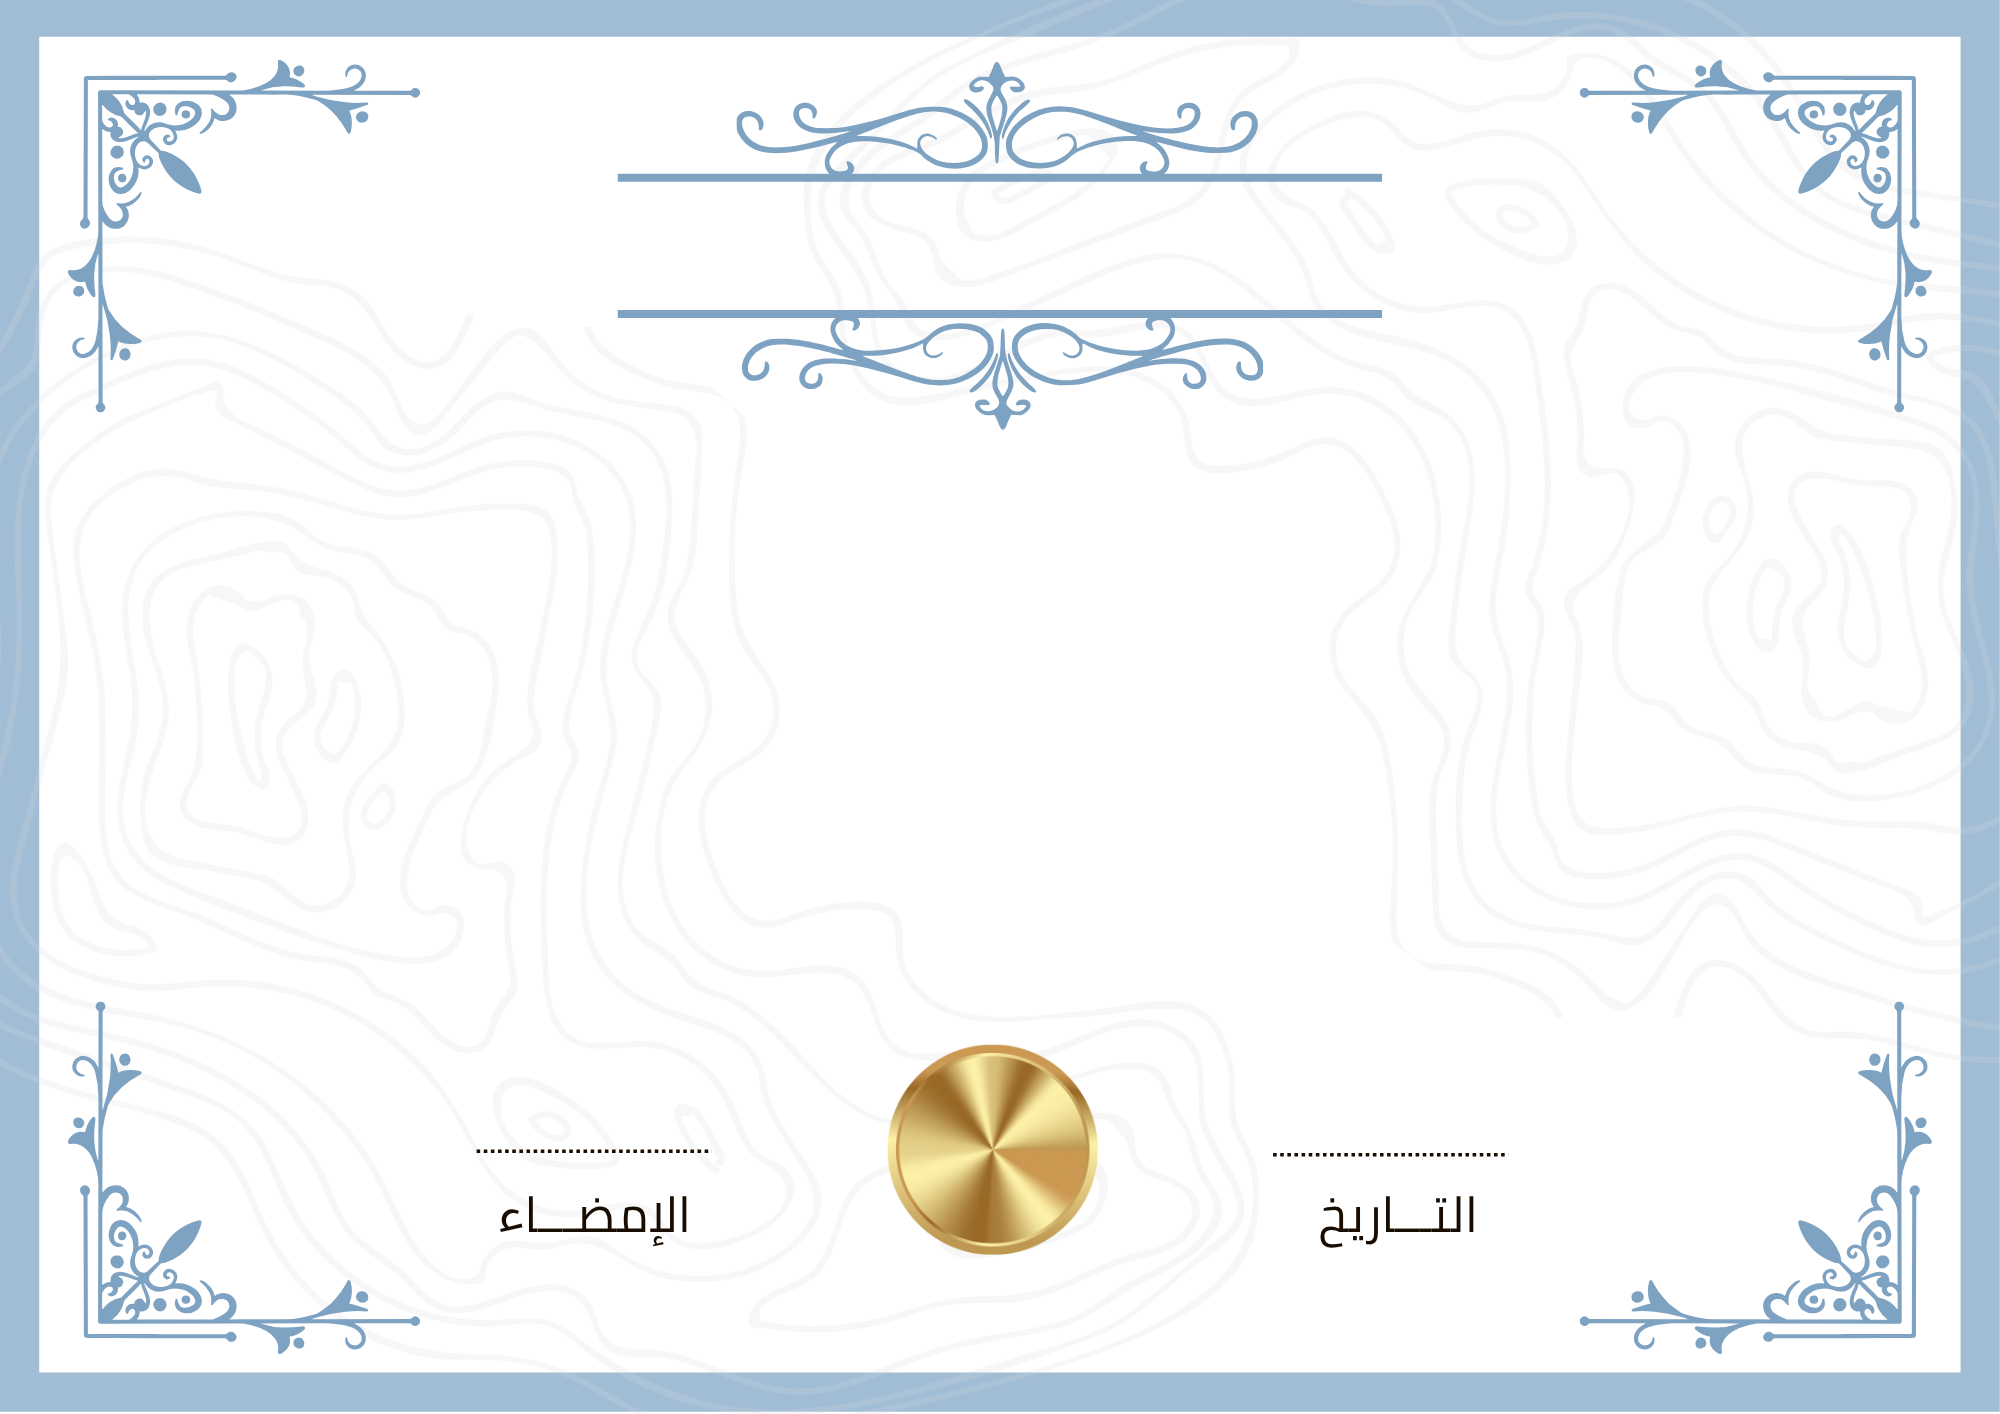
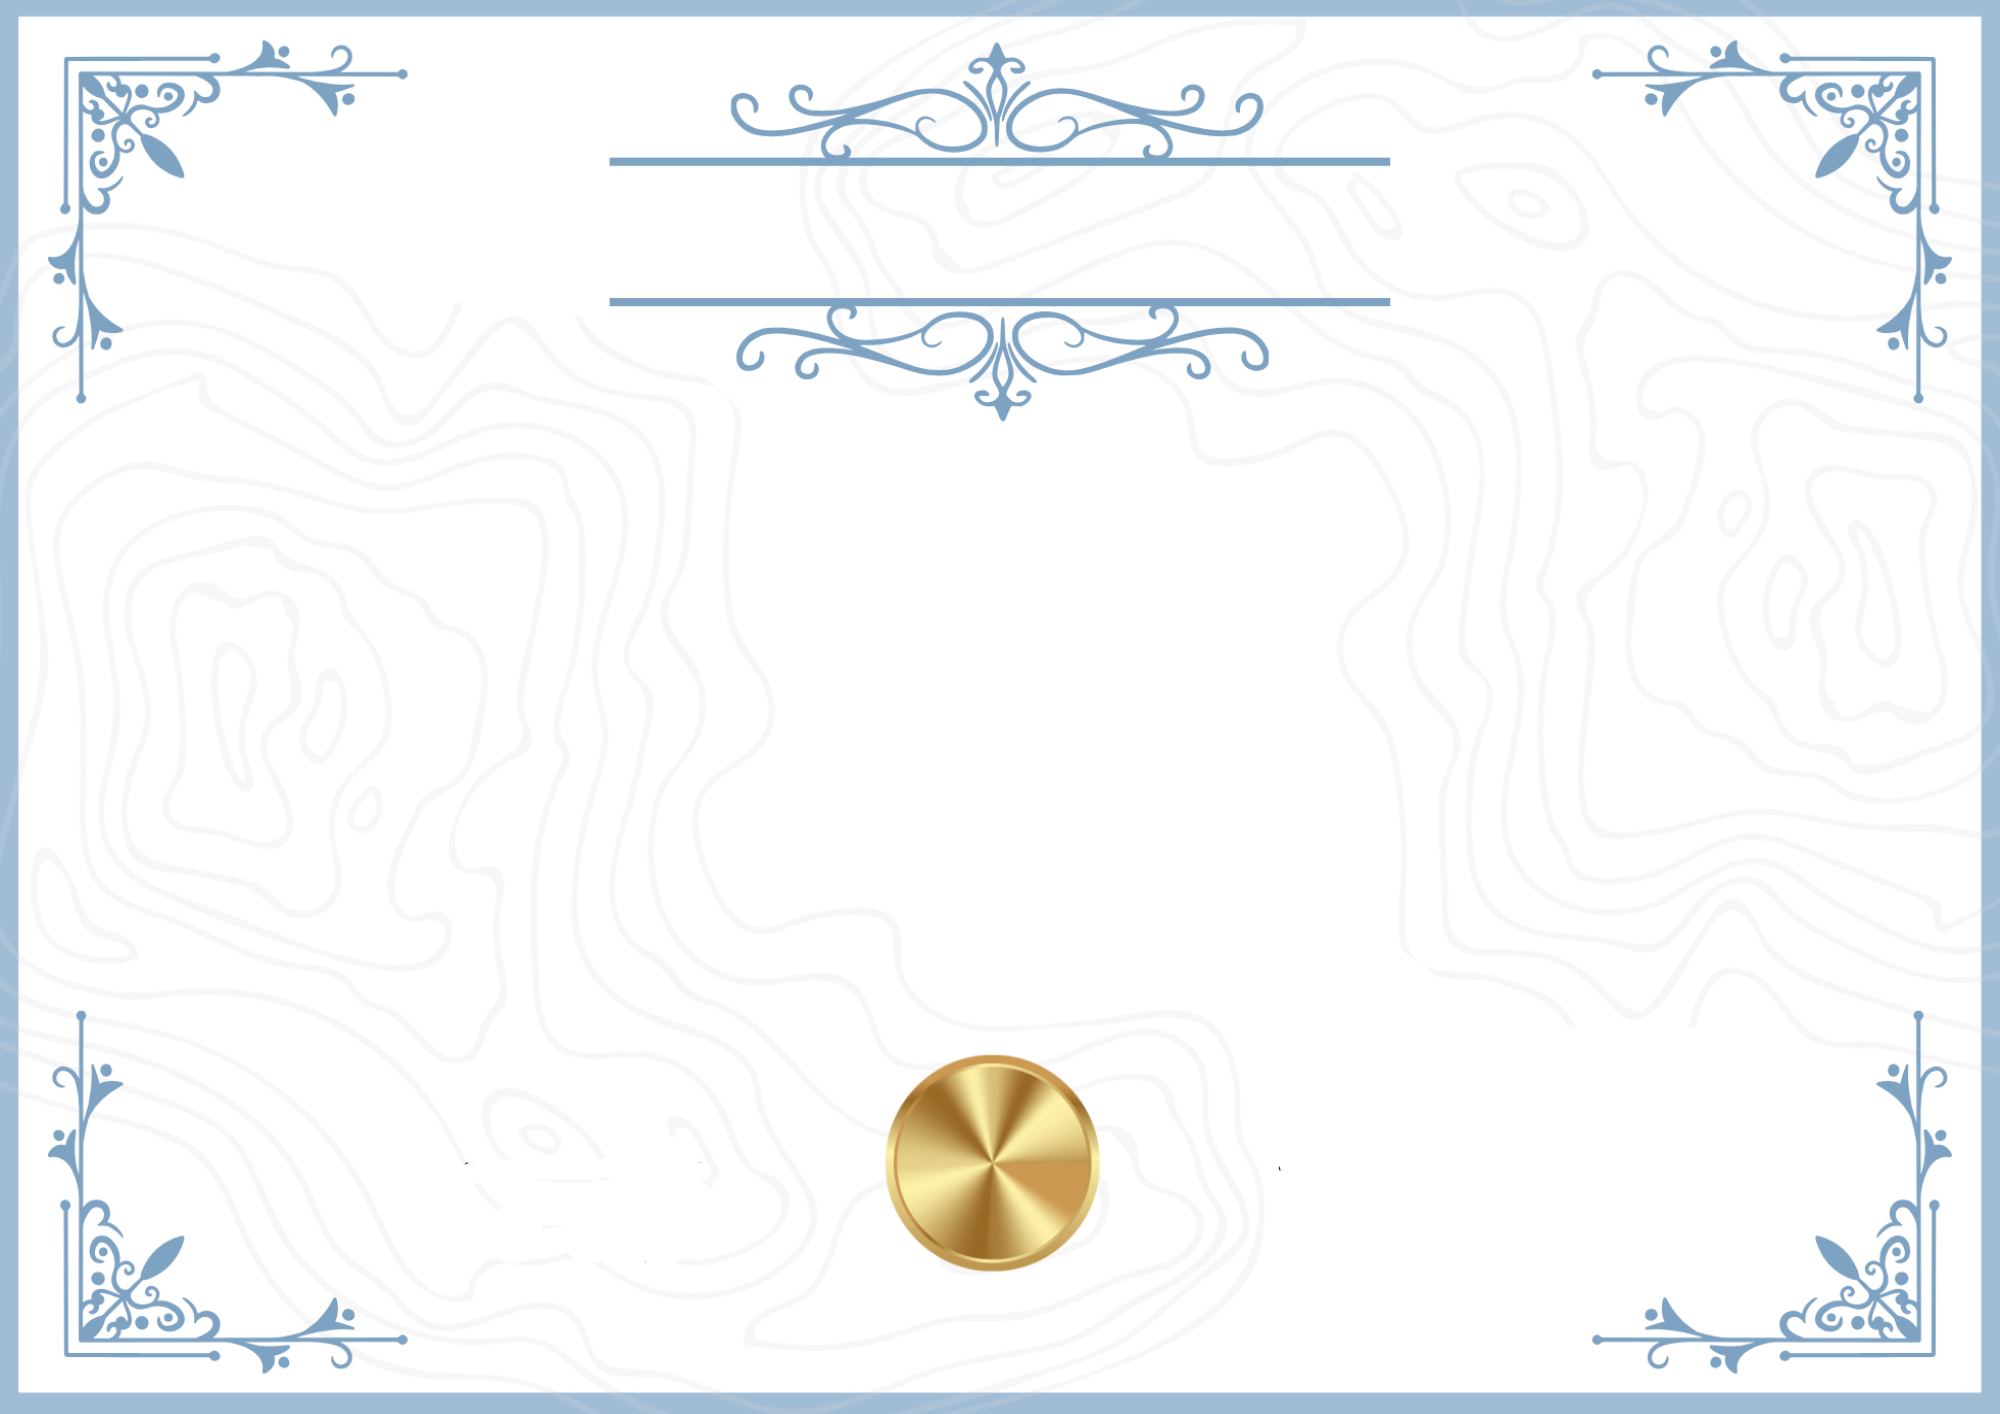
update on certificate template 1

diff --git a/src/config/certificate-templates/index.ts b/src/config/certificate-templates/index.ts
@@ -16,17 +16,28 @@ export const Template1: CertificateTemplate = {
         subtitle: "absolute font-cairo text-4xl text-[#496479]",
         name: "absolute font-bold font-cairo text-7xl text-[#4c5f6e] whitespace-nowrap",
         line2: "absolute text-5xl font-cairo text-center text-[#496479]",
-        date: "absolute text-3xl text-[#496479]",
-        sign: "absolute text-3xl text-[#496479]",
+        date: "absolute text-3xl text-[#496479] hidden",
+        sign: "absolute text-3xl text-[#496479] hidden",
+
+        teacherName: "absolute text-[40px] text-[#4c5f6e] font-bold font-cairo flex flex-col items-center gap-2",
+        managerName: "absolute text-[40px] text-[#4c5f6e] font-bold font-cairo flex flex-col items-center gap-2",
     },
     positions: {
         title: { top: "10%", left: "50%", transform: "translateX(-50%)" },
         subtitle: { top: "30%", left: "50%", transform: "translateX(-50%)" },
         name: { top: "37%", left: "50%", transform: "translateX(-50%)" },
         line2: { top: "49%", left: "50%", transform: "translateX(-50%)" },
-        date: { bottom: "20%", left: "65%" },
-        sign: { bottom: "16%", right: "65%" },
+
+        teacherName: { bottom: "16%", left: "65%" },
+        managerName: { bottom: "16%", right: "65%" },
+
+        // date: { bottom: "20%", left: "65%" },
+        // sign: { bottom: "16%", right: "65%" },
     },
+    formDisplayedFields: {
+        formDate: false,
+        formSign: false,
+    }
 };
 
 
